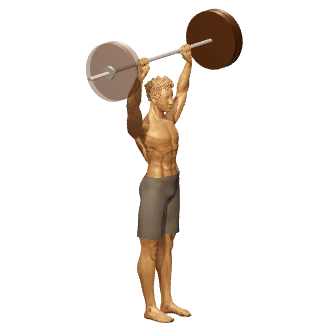
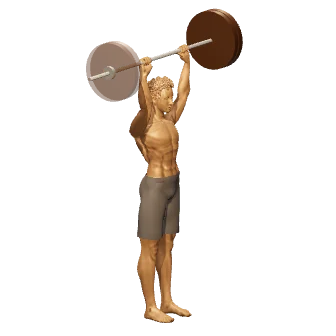
Press militar: antebrazos verticales de principio a fin
El codo se cerraba hacia dentro en el rack y se abría como un poste a media
subida: el `pole` era una mezcla fija de direcciones. Ahora apunta a un punto
justo debajo de la muñeca, abierto 10 cm en el rack (donde la muñeca queda por
fuera y a la altura del hombro) y recogido al subir. Agarre a 24 cm del centro
y barra en el rack 5 cm sobre la articulación del hombro.

Changed region(s): [[0.3571, 0.119, 0.5952, 0.4167]]

diff --git a/js/anim3d/patterns/press.js b/js/anim3d/patterns/press.js
@@ -26,7 +26,7 @@ const mixV = (a, b, t) => a.clone().lerp(b, t).normalize();
  */
 export function overheadPress(o = {}) {
   const stance = o.stance || { foot: 0.1, toeOut: 8 };
-  const gripZ = o.gripZ ?? 0.27;
+  const gripZ = o.gripZ ?? 0.24;
   return s => {
     const A = v2(ANKLE_X, M.ankleH);
     // Dip del push press: ~13° de rodilla, en el primer tercio.
@@ -41,7 +41,7 @@ export function overheadPress(o = {}) {
     const S = shoulderFrom(H, tr);
 
     // Barra: del rack (clavículas) al bloqueo (sobre el mediopié), vertical.
-    const R = torsoPoint(S, tr, o.rackFwd ?? 0.15, o.rackUp ?? 0);
+    const R = torsoPoint(S, tr, o.rackFwd ?? 0.15, o.rackUp ?? 0.05);
     const lockX = o.lockX ?? MID_X - 0.03;
     const dz = Math.abs(M.shoulderZ - gripZ);
     const lockY = S.y + Math.sqrt(Math.max((M.upper + M.fore + M.gripOff - 0.035) ** 2 - (lockX - S.x) ** 2 - dz * dz, 0));
@@ -55,11 +55,27 @@ export function overheadPress(o = {}) {
       wristMax: p < 0.25 ? 112 : undefined,
       neck: rad(o.neck ?? 12) * bump(p * 1.1) };
     const U = (a, b) => mixV(new THREE.Vector3(...a), new THREE.Vector3(...b), p);
-    pose.arms = both((k, side) => ({
-      grip: { point: V3(bar, side * gripZ), axis: ZAX,
-        forearm: U([...(o.fa || [0.5, -0.85]), 0], [0, -1, 0]), back: U([...(o.bk || [-0.4, -0.9]), 0], [-1, -0.1, 0]) },
-      pole: U([1, -0.5, side * 0.35], [-0.2, 0, side * 1]),
-    }));
+    // Antebrazos verticales en todo el recorrido: el codo va justo debajo de la
+    // muñeca, visto de lado y de frente, y un poco por delante de la barra en el
+    // rack. Con un `pole` fijo el codo se cerraba hacia dentro en el rack y se
+    // abría como un poste a media subida.
+    // Antebrazos verticales: el codo apunta a un punto justo debajo de la
+    // muñeca (visto de lado y de frente). Con un `pole` fijo se cerraba hacia
+    // dentro en el rack y se abría como un poste a media subida. `pole` es
+    // relativo al hombro: twoBone se queda con su parte perpendicular a la
+    // línea hombro-muñeca, que es justo la dirección hacia ese punto.
+    pose.arms = both((k, side) => {
+      const sh = V3(S, side * M.shoulderZ);
+      // En el rack la muñeca queda por fuera y a la altura del hombro: el punto
+      // se abre 10 cm para que el codo no se cierre, y se recoge al subir.
+      const out = lerp(o.wristOut ?? 0.1, 0.02, sm(p / 0.4)), fwd = lerp(o.elbowFwd ?? 0.04, 0, sm(p / 0.4));
+      const pole = V3(v2(bar.x + fwd, bar.y - M.fore), side * (gripZ + out)).sub(sh);
+      return {
+        grip: { point: V3(bar, side * gripZ), axis: ZAX,
+          forearm: U([...(o.fa || [0.08, -1]), 0], [0, -1, 0]), back: U([...(o.bk || [-0.4, -0.9]), 0], [-1, -0.1, 0]) },
+        pole,
+      };
+    });
     return pose;
   };
 }

diff --git a/sw.js b/sw.js
@@ -1,6 +1,6 @@
 // Coherence: bump CACHE_NAME whenever ASSETS or the content of ANY file in it
 // changes — the SW is cache-first, so a stale name keeps serving old bytes.
-const CACHE_NAME = 'arete-v199';
+const CACHE_NAME = 'arete-v200';
 const ASSETS = [
   './',
   './app.html',
